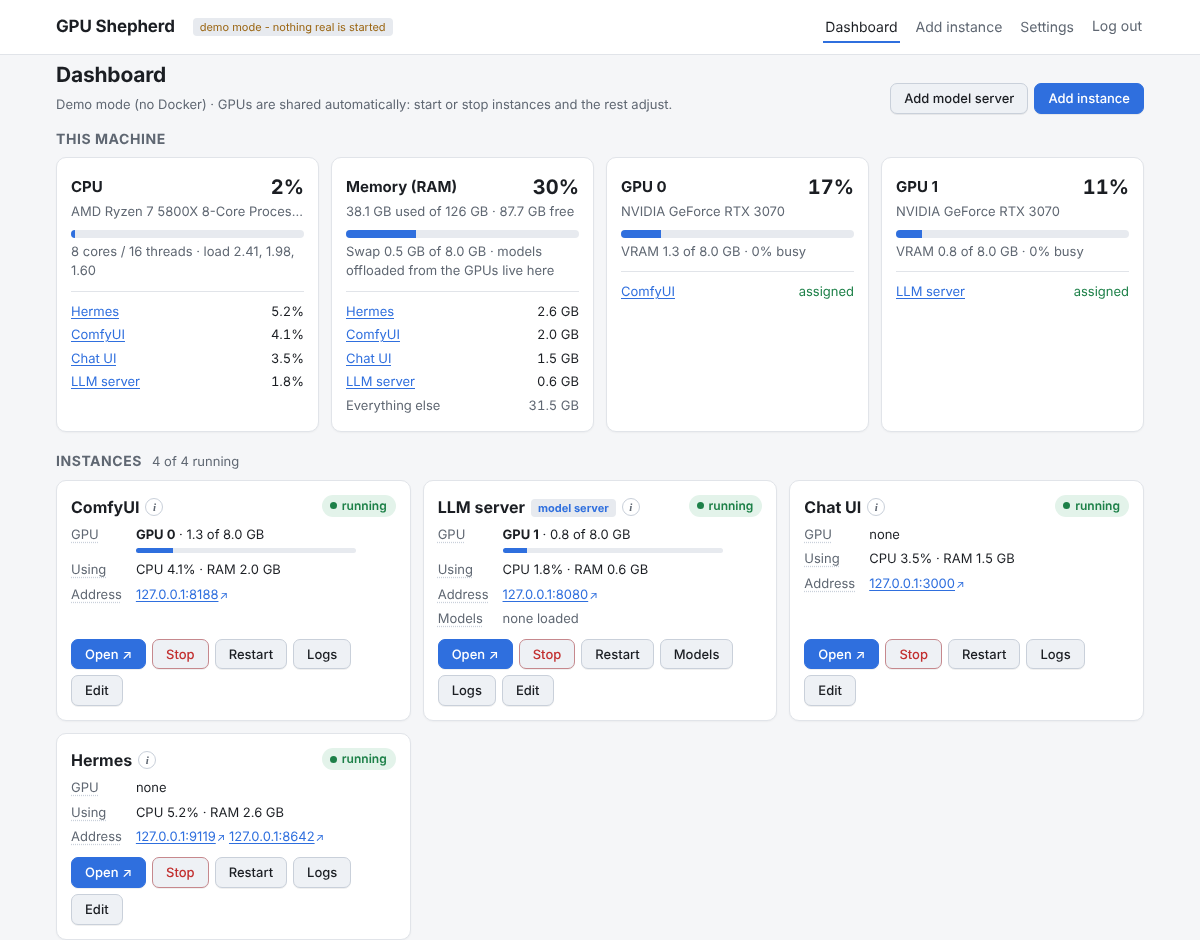
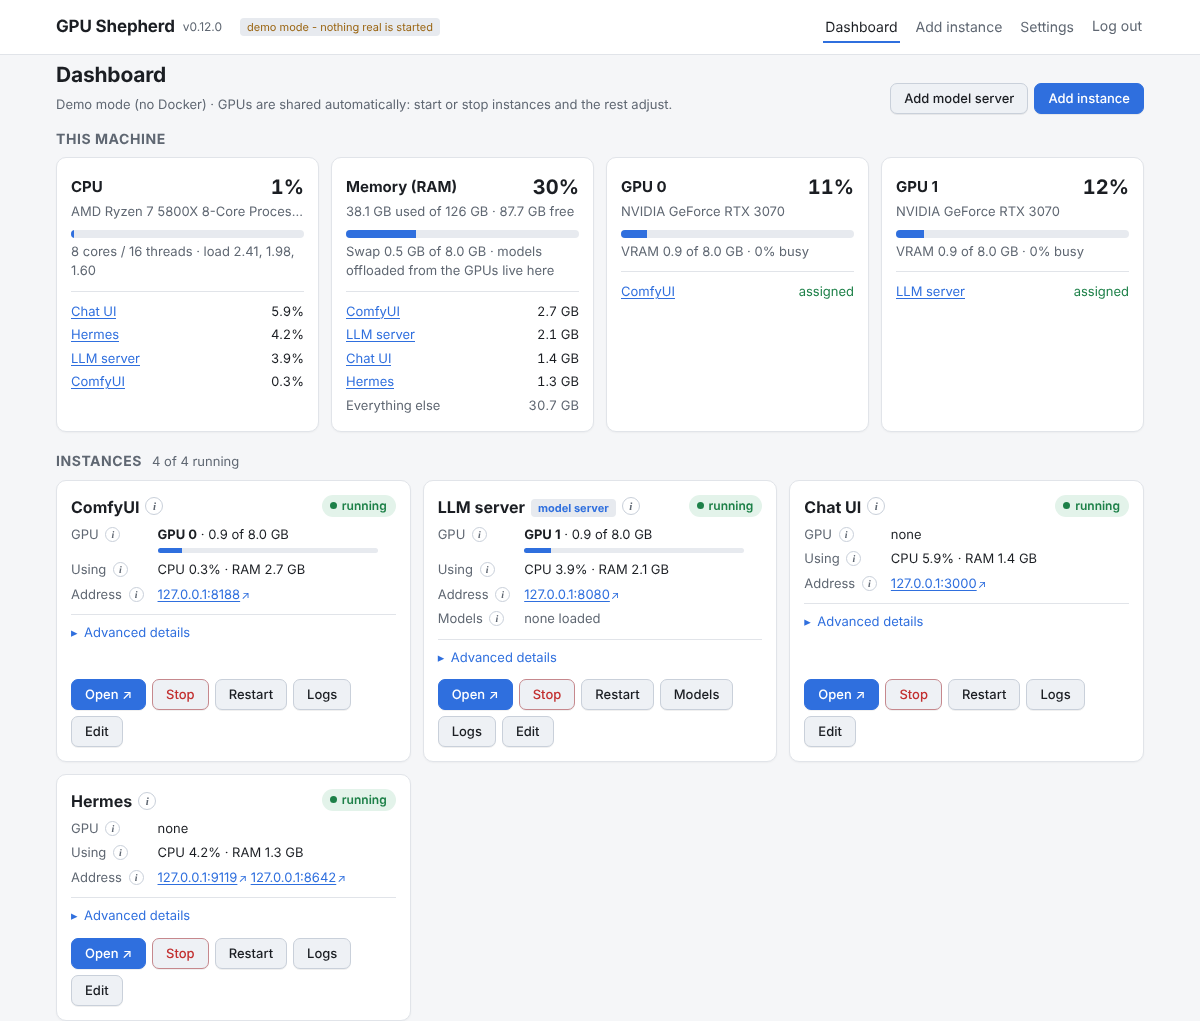
Give each card detail its own tooltip and bring back Advanced details
Every detail (GPU, Using, Address, Models and each advanced field) keeps
its value visible with a small info button beside its name that explains
it on hover, keyboard focus or tap. The info button by the instance name
now only shows its description. The expandable Advanced details section
is back and stays open across dashboard refreshes.

Claude-Session: https://claude.ai/code/session_01FnF5GXLGthHdQTm3ezh5Pj

diff --git a/gpushepherd/templates/partials/dashboard.html b/gpushepherd/templates/partials/dashboard.html
@@ -1,3 +1,7 @@
+{# A small ⓘ button with its tooltip. The tooltip shows on hover, keyboard focus or tap (see app.js) #}
+{% macro info(key, label) -%}
+<span class="has-tip" data-tip="{{ key }}"><button type="button" class="tip-btn info" aria-label="About {{ label }}" aria-describedby="tip-{{ key }}" aria-expanded="false">i</button><span class="tip" role="tooltip" id="tip-{{ key }}">{{ caller() }}</span></span>
+{%- endmacro %}
 {% include "partials/update_banner.html" %}
 {% if problems %}
 <div class="notice error">Some instance files could not be read:
@@ -79,26 +83,11 @@
 <section class="grid" aria-label="Instances">
 {% for c in cards %}{% set i = c.inst %}{% set g = i.gpu %}{% set u = c.usage %}
   <article class="card inst" id="inst-{{ i.id }}">
-    {# Kept short on purpose: the longer explanations sit in tooltips (hover, keyboard focus or tap) #}
+    {# Each detail shows its value; the ⓘ next to it explains it (hover, keyboard focus or tap) #}
     <div class="row head">
-      <div class="title has-tip" data-tip="{{ i.id }}-about">
+      <div class="title">
         <h2>{{ i.name }}{% if i.kind == "llama-swap" %}<span class="tag accent">model server</span>{% endif %}</h2>
-        <button type="button" class="tip-btn info" aria-label="About {{ i.name }}" aria-describedby="tip-{{ i.id }}-about" aria-expanded="false">i</button>
-        <div class="tip" role="tooltip" id="tip-{{ i.id }}-about">
-          {% if i.description %}<p><strong>{{ i.description }}</strong></p>{% endif %}
-          <dl class="facts stack">
-            <dt>State</dt><dd>{% if c.state %}{{ c.state.status_text or c.status }}{% else %}Never started{% endif %}</dd>
-            <dt>Image</dt><dd class="mono">{{ i.image }}</dd>
-            <dt>ID</dt><dd class="mono">{{ i.id }}</dd>
-            <dt>Container</dt><dd class="mono">{{ c.container }}</dd>
-            <dt>Start on boot</dt><dd>{{ "yes" if i.autostart else "no" }}</dd>
-            {% if i.command %}<dt>Command</dt><dd class="mono">{{ i.command|join(" ") }}</dd>{% endif %}
-            <dt>Folders</dt><dd>{% for v in i.volumes %}<div class="mono">{{ v.host }} → {{ v.container }}{{ " (read only)" if v.read_only }}</div>{% else %}none{% endfor %}</dd>
-            {% if i.env %}<dt>Settings</dt><dd class="mono">{{ i.env.keys()|join(", ") }}</dd>{% endif %}
-            {% if i.shm_size %}<dt>Shared memory</dt><dd>{{ i.shm_size }}</dd>{% endif %}
-            {% if i.user %}<dt>Runs as</dt><dd class="mono">{{ i.user }}</dd>{% endif %}
-          </dl>
-        </div>
+        {% if i.description %}{% call info(i.id ~ "-about", i.name) %}<span class="tl">{{ i.description }}</span>{% endcall %}{% endif %}
       </div>
       {% if c.running %}<span class="pill on" title="{{ c.state.status_text }}">running</span>
       {% elif c.state %}<span class="pill off" title="{{ c.state.status_text }}">{{ "stopped" if c.status in ("exited", "created") else c.status }}</span>
@@ -108,63 +97,85 @@
     {% if c.pending %}<p class="meta"><span class="tag warn">Saved changes not applied - restart to apply</span></p>{% endif %}
 
     <dl class="facts">
-      <div class="fact has-tip" data-tip="{{ i.id }}-gpu">
-        <dt><button type="button" class="tip-btn" aria-describedby="tip-{{ i.id }}-gpu" aria-expanded="false">GPU</button></dt>
+      <div class="fact">
+        <dt>GPU {% call info(i.id ~ "-gpu", "GPU") -%}
+          {% if c.running and c.assigned %}<span class="tl"><strong>{{ c.assigned|map(attribute="name")|unique|join(", ") }}</strong>{% if c.vram_total %}: {{ "%.1f"|format(c.vram_used / 1024) }} GB of video memory in use{% endif %}</span>{% endif %}
+          <span class="tl">{% if g.mode == "fixed" %}Always uses GPU {{ g.gpus|join(", ") }}.
+            {%- elif g.mode == "elastic" %}Uses {% if not g.max_gpus %}{{ g.min_gpus }} or more GPUs{% elif g.max_gpus == g.min_gpus %}exactly {{ g.min_gpus }} GPU{{ "s" if g.min_gpus > 1 }}{% else %}{{ g.min_gpus }} to {{ g.max_gpus }} GPUs{% endif %}, and gives extra ones up when another instance needs them.
+            {%- else %}Does not use a GPU.{% endif %}</span>
+          {% if g.mode != "none" %}<span class="tl muted">Priority {{ g.priority }}: when instances want the same GPU, the higher priority keeps it.</span>{% endif %}
+        {%- endcall %}</dt>
         <dd>{% if c.running and c.gpus %}<strong>{{ gpu_text(c.gpus) }}</strong>
             {%- if c.vram_total %}{% set pct = (100 * c.vram_used / c.vram_total)|round|int %} · {{ "%.1f"|format(c.vram_used / 1024) }} of {{ "%.1f"|format(c.vram_total / 1024) }} GB
             <div class="meter thin" role="img" aria-label="{{ pct }}% video memory used"><i class="{{ level(pct) }}" style="width: {{ pct }}%"></i></div>{% endif %}
           {% elif c.running %}none
-          {% else %}<span class="muted">none while stopped</span>{% endif %}
-          <div class="tip" role="tooltip" id="tip-{{ i.id }}-gpu">
-            {% if c.running and c.assigned %}<p><strong>{{ c.assigned|map(attribute="name")|unique|join(", ") }}</strong>{% if c.vram_total %}: {{ "%.1f"|format(c.vram_used / 1024) }} GB of video memory in use{% endif %}</p>{% endif %}
-            <p>{% if g.mode == "fixed" %}Always uses GPU {{ g.gpus|join(", ") }}.
-              {%- elif g.mode == "elastic" %}Uses {% if not g.max_gpus %}{{ g.min_gpus }} or more GPUs{% elif g.max_gpus == g.min_gpus %}exactly {{ g.min_gpus }} GPU{{ "s" if g.min_gpus > 1 }}{% else %}{{ g.min_gpus }} to {{ g.max_gpus }} GPUs{% endif %}, and gives extra ones up when another instance needs them.
-              {%- else %}Does not use a GPU.{% endif %}</p>
-            {% if g.mode != "none" %}<p class="muted">Priority {{ g.priority }}: when instances want the same GPU, the higher priority keeps it.</p>{% endif %}
-          </div></dd>
+          {% else %}<span class="muted">none while stopped</span>{% endif %}</dd>
       </div>
 
       {% if c.running %}
-      <div class="fact has-tip" data-tip="{{ i.id }}-use">
-        <dt><button type="button" class="tip-btn" aria-describedby="tip-{{ i.id }}-use" aria-expanded="false">Using</button></dt>
-        <dd>{% if u %}CPU {{ "measuring…" if u.cpu_pct is none else ("%.1f"|format(u.cpu_pct) ~ "%") }} · RAM {{ u.mem_used|gib }}{% else %}<span class="muted">not available</span>{% endif %}
-          <div class="tip" role="tooltip" id="tip-{{ i.id }}-use">
-            {% if u %}<p>CPU: {% if u.cpu_pct is not none %}{{ "%.1f"|format(u.cpu_pct) }}% of the whole machine{% else %}measured from the next refresh{% endif %}.</p>{% endif %}
-            <p>RAM: {% if u %}{{ u.mem_used|gib }}, {% endif %}{% if i.memory_limit %}limit {{ i.memory_limit }}{% else %}no limit{% endif %}. Model layers offloaded from the GPUs count here.</p>
-          </div></dd>
+      <div class="fact">
+        <dt>Using {% call info(i.id ~ "-use", "CPU and RAM use") -%}
+          <span class="tl">CPU: share of the whole machine{% if u and u.cpu_pct is none %}, measured from the next refresh{% endif %}.</span>
+          <span class="tl">RAM: {% if i.memory_limit %}limit {{ i.memory_limit }}{% else %}no limit{% endif %}. Model layers offloaded from the GPUs count here.</span>
+        {%- endcall %}</dt>
+        <dd>{% if u %}CPU {{ "measuring…" if u.cpu_pct is none else ("%.1f"|format(u.cpu_pct) ~ "%") }} · RAM {{ u.mem_used|gib }}{% else %}<span class="muted">not available</span>{% endif %}</dd>
       </div>
       {% endif %}
 
-      <div class="fact has-tip" data-tip="{{ i.id }}-addr">
-        <dt><button type="button" class="tip-btn" aria-describedby="tip-{{ i.id }}-addr" aria-expanded="false">Address</button></dt>
+      <div class="fact">
+        <dt>Address {% call info(i.id ~ "-addr", "Address") -%}
+          {% for p in c.ports %}<span class="tl">Port {{ p.port.host }} on this machine → port {{ p.port.container }}{{ "/udp" if p.port.protocol == "udp" }} in the container</span>
+          {% else %}<span class="tl">Nothing in this container is reachable from outside it.</span>{% endfor %}
+          {% if c.ports and c.running %}<span class="tl muted">Links open in a new tab.</span>{% elif c.ports %}<span class="tl muted">Links appear once it is running.</span>{% endif %}
+        {%- endcall %}</dt>
         <dd>{% for p in c.ports %}{% if c.running %}<a class="ext" href="{{ p.url }}" target="_blank" rel="noopener">{{ p.label }}</a>{% else %}<span class="mono">port {{ p.port.host }}</span>{% endif %}{{ " " if not loop.last }}
-          {%- else %}<span class="muted">no ports published</span>{% endfor %}
-          <div class="tip" role="tooltip" id="tip-{{ i.id }}-addr">
-            {% for p in c.ports %}<p>Port {{ p.port.host }} on this machine → port {{ p.port.container }}{{ "/udp" if p.port.protocol == "udp" }} in the container</p>
-            {% else %}<p>Nothing in this container is reachable from outside it.</p>{% endfor %}
-            {% if c.ports and c.running %}<p class="muted">Links open in a new tab.</p>{% elif c.ports %}<p class="muted">Links appear once it is running.</p>{% endif %}
-          </div></dd>
+          {%- else %}<span class="muted">no ports published</span>{% endfor %}</dd>
       </div>
 
       {% if i.kind == "llama-swap" %}
-      <div class="fact has-tip" data-tip="{{ i.id }}-models">
-        <dt><button type="button" class="tip-btn" aria-describedby="tip-{{ i.id }}-models" aria-expanded="false">Models</button></dt>
+      <div class="fact">
+        <dt>Models {% call info(i.id ~ "-models", "Models") -%}
+          {% if c.running and not c.loaded and not c.loading and not c.models_error %}<span class="tl">A model loads on the first request for it.</span>{% endif %}
+          {% for mid, r in c.offload.items() %}<span class="tl">{{ mid }}:
+            {%- if r.gpu_layers is not none %} {{ r.gpu_layers }} layers on GPU{% endif %}
+            {%- if r.cpu_moe %}{{ "," if r.gpu_layers is not none }} {{ r.cpu_moe }} expert layers in system RAM{% endif %}</span>{% endfor %}
+          {% if c.aliases %}<span class="tl">Auto names: {% for a, m in c.aliases.items() %}<span class="mono">{{ a }}</span> → {{ m }}{{ ", " if not loop.last }}{% endfor %}</span>{% endif %}
+          <span class="tl muted">Load, unload and configure them under Models.</span>
+        {%- endcall %}</dt>
         <dd>{% if not c.running %}<span class="muted">{{ c.model_count }} in the catalogue</span>
           {% elif c.models_error %}<span class="muted">{{ c.models_error }}</span>
           {% elif c.loading %}<span class="busy-t">Loading {{ c.loading|join(", ") }}…</span>
           {% elif c.loaded %}<strong>{{ c.loaded|join(", ") }}</strong> loaded
-          {% else %}<span class="muted">none loaded</span>{% endif %}
-          <div class="tip" role="tooltip" id="tip-{{ i.id }}-models">
-            {% if c.running and not c.loaded and not c.loading and not c.models_error %}<p>A model loads on the first request for it.</p>{% endif %}
-            {% for mid, r in c.offload.items() %}<p>{{ mid }}:
-              {%- if r.gpu_layers is not none %} {{ r.gpu_layers }} layers on GPU{% endif %}
-              {%- if r.cpu_moe %}{{ "," if r.gpu_layers is not none }} {{ r.cpu_moe }} expert layers in system RAM{% endif %}</p>{% endfor %}
-            {% if c.aliases %}<p>Auto names: {% for a, m in c.aliases.items() %}<span class="mono">{{ a }}</span> → {{ m }}{{ ", " if not loop.last }}{% endfor %}</p>{% endif %}
-            <p class="muted">Load, unload and configure them under Models.</p>
-          </div></dd>
+          {% else %}<span class="muted">none loaded</span>{% endif %}</dd>
       </div>
       {% endif %}
     </dl>
+
+    <details class="more">
+      <summary>Advanced details</summary>
+      <dl class="facts">
+        <div class="fact"><dt>State {% call info(i.id ~ "-state", "State") %}<span class="tl">What Docker reports for the container: how long it has been up, or when and how it stopped.</span>{% endcall %}</dt>
+          <dd>{% if c.state %}{{ c.state.status_text or c.status }}{% else %}Never started{% endif %}</dd></div>
+        <div class="fact"><dt>Image {% call info(i.id ~ "-image", "Image") %}<span class="tl">The Docker image this instance runs. Change it under Edit, then restart to use it.</span>{% endcall %}</dt>
+          <dd class="mono">{{ i.image }}</dd></div>
+        <div class="fact"><dt>ID {% call info(i.id ~ "-id", "ID") %}<span class="tl">GPU Shepherd's name for this instance, used in its file (<span class="mono">instances/{{ i.id }}.yaml</span>) and the API.</span>{% endcall %}</dt>
+          <dd class="mono">{{ i.id }}</dd></div>
+        <div class="fact"><dt>Container {% call info(i.id ~ "-container", "Container") %}<span class="tl">The Docker container's name, for commands like <span class="mono">docker logs {{ c.container }}</span>.</span>{% endcall %}</dt>
+          <dd class="mono">{{ c.container }}</dd></div>
+        <div class="fact"><dt>Start on boot {% call info(i.id ~ "-boot", "Start on boot") %}<span class="tl">Whether GPU Shepherd starts this instance when it starts itself, for example after a reboot.</span>{% endcall %}</dt>
+          <dd>{{ "yes" if i.autostart else "no" }}</dd></div>
+        {% if i.command %}<div class="fact"><dt>Command {% call info(i.id ~ "-cmd", "Command") %}<span class="tl">Replaces the image's default command when the container starts.</span>{% endcall %}</dt>
+          <dd class="mono">{{ i.command|join(" ") }}</dd></div>{% endif %}
+        <div class="fact"><dt>Folders {% call info(i.id ~ "-folders", "Folders") %}<span class="tl">Folders on this machine that the container can use: this machine → inside the container. Files there survive restarts and updates.</span>{% endcall %}</dt>
+          <dd>{% for v in i.volumes %}<div class="mono small">{{ v.host }} → {{ v.container }}{{ " (read only)" if v.read_only }}</div>{% else %}<span class="muted">none</span>{% endfor %}</dd></div>
+        {% if i.env %}<div class="fact"><dt>Settings {% call info(i.id ~ "-env", "Settings") %}<span class="tl">Environment variables passed to the container. Only the names are shown here; values stay hidden (see Edit).</span>{% endcall %}</dt>
+          <dd class="mono small">{{ i.env.keys()|join(", ") }}</dd></div>{% endif %}
+        {% if i.shm_size %}<div class="fact"><dt>Shared memory {% call info(i.id ~ "-shm", "Shared memory") %}<span class="tl">Size of <span class="mono">/dev/shm</span> in the container. PyTorch apps such as ComfyUI need more than Docker's 64 MB default.</span>{% endcall %}</dt>
+          <dd>{{ i.shm_size }}</dd></div>{% endif %}
+        {% if i.user %}<div class="fact"><dt>Runs as {% call info(i.id ~ "-user", "Runs as") %}<span class="tl">The user and group ID the container's process runs as, so files it writes belong to that user.</span>{% endcall %}</dt>
+          <dd class="mono">{{ i.user }}</dd></div>{% endif %}
+      </dl>
+    </details>
 
     <div class="btns">
       {% if c.running %}

diff --git a/gpushepherd/static/app.css b/gpushepherd/static/app.css
@@ -78,28 +78,27 @@ a.ext::after{content:" ↗";font-size:.85em;text-decoration:none;display:inline-
 .facts{display:grid;grid-template-columns:max-content 1fr;gap:5px 14px;margin:6px 0 10px;font-size:13px}
 .facts dt{color:var(--muted)}
 .facts dd{margin:0;min-width:0;overflow-wrap:anywhere}
-/* compact cards: each row's longer explanation is a tooltip, shown on hover, keyboard focus or tap */
+/* every detail shows its value; the small ⓘ next to its name explains it on hover, keyboard focus or tap */
 .inst .head{position:relative;align-items:flex-start}
 .inst .title{display:flex;align-items:center;gap:6px;min-width:0}
 .facts>.fact{display:grid;grid-column:1/-1;grid-template-columns:subgrid;position:relative}
-.has-tip>.tip,.has-tip .tip{display:none}
+.facts dt{white-space:nowrap}
+.has-tip .tip{display:none}
 @media (hover:hover){.has-tip:hover .tip{display:block}}
 .has-tip:has(.tip-btn:focus-visible) .tip,.has-tip.open .tip{display:block}
 .has-tip.hush .tip{display:none !important}
 .tip{position:absolute;z-index:6;left:0;right:0;top:calc(100% + 4px);background:var(--card);color:var(--fg);
 border:1px solid var(--btn-line);border-radius:8px;padding:9px 11px;font-size:13px;font-weight:400;line-height:1.45;
-box-shadow:0 6px 20px rgba(0,0,0,.16);cursor:auto;text-align:left}
-.tip::before{content:"";position:absolute;left:0;right:0;top:-6px;height:6px}  /* keeps hover alive across the gap */
-.tip p{margin:0 0 4px}.tip p:last-child{margin-bottom:0}
-.tip .facts{margin:6px 0 0;gap:3px 12px}
-.tip .facts.stack{display:block}.tip .stack dt{font-size:12px;margin-top:5px}.tip .mono{font-size:12px}
-.tip-btn{font:inherit;font-size:inherit;font-weight:inherit;color:inherit;background:none;border:0;padding:0;box-shadow:none;
-cursor:help;border-radius:3px;text-decoration:underline dotted;text-decoration-color:var(--btn-line);text-underline-offset:3px}
-.tip-btn:hover{background:none;text-decoration-color:var(--muted)}
-.tip-btn:active{transform:none}
-.tip-btn.info{width:18px;height:18px;border-radius:50%;border:1px solid var(--btn-line);color:var(--muted);text-decoration:none;
-font:italic 600 11px/16px Georgia,serif;text-align:center;flex:none}
-.tip-btn.info:hover,.has-tip.open>.tip-btn.info{color:var(--accent);border-color:var(--accent)}
+box-shadow:0 6px 20px rgba(0,0,0,.16);cursor:auto;text-align:left;white-space:normal}
+.tip .tl{display:block;margin:0 0 4px}.tip .tl:last-child{margin-bottom:0}
+.tip-btn.info{display:inline-block;vertical-align:1px;width:15px;height:15px;padding:0;margin-left:3px;border-radius:50%;
+border:1px solid var(--btn-line);background:none;box-shadow:none;color:var(--muted);cursor:help;
+font:italic 600 10px/13px Georgia,serif;text-align:center}
+.head .tip-btn.info{width:18px;height:18px;font-size:11px;line-height:16px;margin-left:0}
+.tip-btn.info:hover,.has-tip.open>.tip-btn.info{color:var(--accent);border-color:var(--accent);background:none}
+.tip-btn.info:active{transform:none}
+.more{margin:0 0 12px;border-top:1px solid var(--line);padding-top:8px}
+.more .facts{margin-bottom:0}
 .htmx-request button,.htmx-request.btn{opacity:.6}
 .empty{text-align:center;padding:36px 16px}
 /* forms */

diff --git a/gpushepherd/static/app.js b/gpushepherd/static/app.js
@@ -28,6 +28,18 @@
   document.addEventListener("htmx:afterSwap", (e) => { if (e.detail.target.id === "modal-body") openModal(); });
   document.addEventListener("htmx:responseError", (e) => toast("Request failed (HTTP " + e.detail.xhr.status + ")", "error"));
   document.addEventListener("htmx:sendError", () => toast("GPU Shepherd is not reachable", "error"));
+  // the dashboard re-renders every few seconds: keep the "Advanced details" boxes the user opened open
+  const openDetails = new Set();
+  document.addEventListener("toggle", (e) => {
+    const d = e.target;
+    if (d.tagName !== "DETAILS" || !d.closest("#dash")) return;
+    const card = d.closest("[id]");
+    if (card) (d.open ? openDetails.add(card.id) : openDetails.delete(card.id));
+  }, true);
+  document.addEventListener("htmx:afterSwap", (e) => {
+    if (e.detail.target.id !== "dash") return;
+    openDetails.forEach((id) => { const d = document.querySelector("#" + CSS.escape(id) + " details"); if (d) d.open = true; });
+  });
   // tooltips: hover and keyboard focus are pure CSS; a click or tap pins one open until you click elsewhere or press Esc
   const tipOf = (el) => el && el.closest(".has-tip");
   let pinned = null, focusedTip = null;

diff --git a/tests/test_app.py b/tests/test_app.py
@@ -224,7 +224,8 @@ def test_dashboard_details_and_machine_panels(stack):
     assert "nousresearch/hermes-agent:stable" in card and "shepherd-hermes" in card
     assert 'href="http://testserver:9119/"' in card and '>testserver:9119</a>' in card and "limit 4g" in card and "Up " in card
     assert "HERMES_UID" in card and "change-me-please" not in card     # setting names, never their values
-    assert "% of the whole machine" in card
+    assert "share of the whole machine" in card and "Advanced details" in card
+    assert all(f'id="tip-hermes-{k}"' in card for k in ("gpu", "use", "addr", "state", "image", "folders", "env"))
     # the long explanations live in tooltips that hover, focus and tap can all reach
     assert 'aria-describedby="tip-hermes-about"' in card and 'role="tooltip" id="tip-hermes-about"' in card
     assert card.index("Home lab") > card.index('id="tip-hermes-about"')     # the description is in the tooltip

diff --git a/README.md b/README.md
@@ -28,8 +28,9 @@ each instance says what it needs, and starting or stopping anything re-plans who
 - **Instances**: any Docker image - ports, folders, environment, command, autostart - edited in
   forms. One compact card per instance with Start / Stop / Restart / Open / Logs, showing its
   state, GPUs and VRAM, CPU and RAM use, web addresses and (for model servers) the loaded model.
-  Hover, tab to or tap a label (or the ⓘ next to the name) for the details behind it: the GPU rule
-  and priority, ports, image, folders, and how much of a model sits in system RAM.
+  **Advanced details** opens the image, folders, command and the rest. Every detail has a small ⓘ
+  next to it: hover, tab to or tap it to see what the value means (GPU rule and priority, ports,
+  how much of a model sits in system RAM, and so on).
 - **Machine overview**: CPU, RAM and every GPU at a glance, with how much each instance uses.
 - **GPU policies** per instance:
   - *Fixed* - always these GPUs (e.g. ComfyUI on GPU 0).
